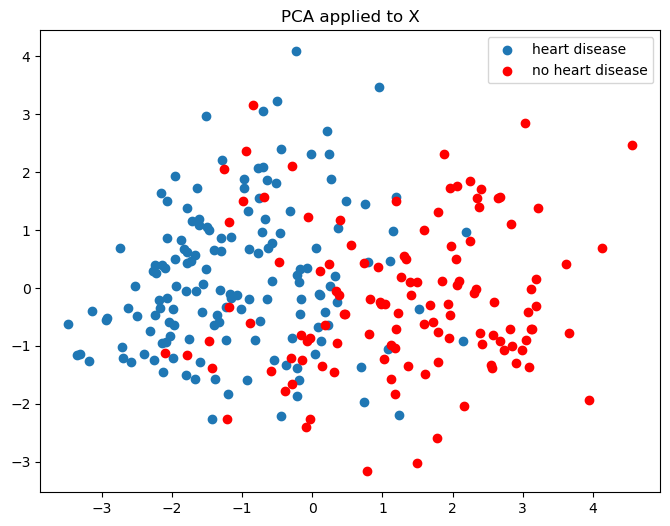
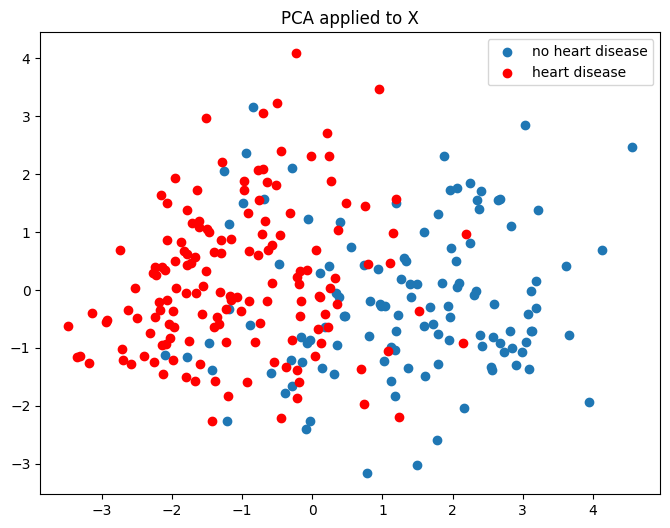
added decision boundary

diff --git a/neural_net.py b/neural_net.py
@@ -120,6 +120,22 @@ class Network:
         self.loss = loss
         self.grad_loss = grad_loss
 
+    def forward_propagation(self, input_data):
+        # sample dimension first
+        samples = len(input_data)
+        result = []
+
+        # run network over all samples
+        for i in range(samples):
+            # forward propagation
+            output = np.array([input_data[i]])
+
+            for layer in self.layers:
+                output = layer.forward(output)
+            result.append(output)
+
+        return result
+
     # predict output for given input
 
     def predict(self, input_data, y_test):
@@ -144,13 +160,13 @@ class Network:
 
         err /= samples
         acc = acc / samples
-        print("Prediction error=%f   accuracy=%f " % (err, acc))
+        print("Prediction error=%f   accuracy=%f \n" % (err, acc))
 
         return result, err, acc
 
     # train the network
     def fit(self, x_train, y_train, epochs, learning_rate):
-        print(" Fitting Neural Network")
+        print("Fitting Neural Network")
         # sample dimension first
         samples = len(x_train)
         acc_array = []
@@ -184,7 +200,7 @@ class Network:
             acc_array.append(acc)
 
             if i % 100 == 0:
-                print("epoch %d/%d   error=%f   accuracy=%f " % (i, epochs, err, acc))
+                print("   epoch %d/%d   error=%f   accuracy=%f " % (i, epochs, err, acc))
 
         self.accuracy_metric = acc_array
         self.error_metric = err_array

diff --git a/test.py b/test.py
@@ -1,31 +1,35 @@
 import pandas as pd
 import numpy as np
-from sklearn.preprocessing import StandardScaler    
+from sklearn.preprocessing import StandardScaler
 
 from neural_net import Network, DenseLayer, ActivationLayer
-from functions import mse, mse_grad, tanh, tanh_grad
-from posixpath import split
+from functions import mse, mse_grad, tanh, tanh_grad, sigmoid, sigmoid_grad
+from decision_bound import decision_boundary
 from load_data import load_data
 from dim_red import dim_reduction
 from stratify import stratify_cv
 
+from posixpath import split
+
+
 def main():
     # Importing dataset
     X, y = load_data(split_xy=True)
-    
+
     scaler = StandardScaler()
     X = scaler.fit_transform(X)
 
-    X_train, X_test, y_train, y_test = (
-        stratify_cv(np.c_[dim_reduction(X, y, saveimg=False), y])
-    )
-    
+    X_dim = dim_reduction(X, y, saveimg=True)
+
+    X_train, X_test, y_train, y_test = stratify_cv(np.c_[X_dim, y])
+
     # Building the Network
     net = Network()
     net.add(DenseLayer(2, 10))
     net.add(ActivationLayer(tanh, tanh_grad))
     net.add(DenseLayer(10, 1))
     net.add(ActivationLayer(tanh, tanh_grad))
+    net.add(ActivationLayer(sigmoid, sigmoid_grad))
 
     # Fitting
     net.use(mse, mse_grad)
@@ -34,7 +38,8 @@ def main():
     # Testing
     results, err, acc = net.predict(X_test, y_test)
 
+    decision_boundary(X_dim, y, net, True)
+
 
 if __name__ == "__main__":
     main()
-

diff --git a/decision_bound.py b/decision_bound.py
@@ -1,0 +1,34 @@
+import numpy as np
+import matplotlib.pyplot as plt
+
+from dim_red import dim_reduction
+
+
+def decision_boundary(X, y, net, saveimg=True):
+    min1, max1 = X[:, 0].min()-1, X[:, 0].max()+1
+    min2, max2 = X[:, 1].min()-1, X[:, 1].max()+1
+
+    x1grid = np.arange(min1, max1, 0.1)
+    x2grid = np.arange(min2, max2, 0.1)
+
+    xx, yy = np.meshgrid(x1grid, x2grid)
+    r1, r2 = xx.flatten(), yy.flatten()
+    r1, r2 = r1.reshape((len(r1), 1)), r2.reshape((len(r2), 1))
+    grid = np.hstack((r1,r2))
+
+    y_hat = np.round(net.forward_propagation(grid))
+
+    zz = y_hat.reshape(xx.shape)
+
+    import matplotlib.pyplot as plt
+    plt.figure(figsize=(8, 6))
+    plt.contourf(xx, yy, zz, cmap='bwr', alpha=0.4)
+
+    plt.title("Decision bound")
+    plt.scatter(X.T[0][y == 0], X.T[1][y == 0], label="no heart disease")
+    plt.scatter(X.T[0][y == 1], X.T[1][y == 1], color="red", label="heart disease")
+    plt.legend()
+
+    if saveimg:
+        plt.savefig("figures/decision_bound.png", bbox_inches="tight")
+        print("A plot of the decision bound is saved in the .../figures/ folder \n")

diff --git a/dim_red.py b/dim_red.py
@@ -5,15 +5,18 @@ import pandas as pd
 
 
 def dim_reduction(X, y, saveimg=True):
+    print("Performing PCA on the data")
     pca = PCA(n_components=2).fit_transform(X).T
     plt.figure(figsize=(8, 6))
     plt.title("PCA applied to X")
-    plt.scatter(pca[0][y == 1], pca[1][y == 1], label="heart disease")
-    plt.scatter(pca[0][y == 0], pca[1][y == 0], color="red", label="no heart disease")
+    plt.scatter(pca[0][y == 0], pca[1][y == 0], label="no heart disease")    
+    plt.scatter(pca[0][y == 1], pca[1][y == 1], color="red", label="heart disease")
+
     plt.legend()
 
     if saveimg:
         plt.savefig("figures/pca_n2.png", bbox_inches="tight")
+        print("A plot of the transformed data is saved in the .../figures/ folder \n")
 
     return pca.T
 

diff --git a/load_data.py b/load_data.py
@@ -2,6 +2,7 @@ import pandas as pd
 
 
 def load_data(split_xy=True):
+    print("Loading the data \n")
     heart = pd.read_csv("heart.csv", header=None)
     # change the label '-1' to '0'
     heart.loc[heart[13] < 1, 13] = 0

diff --git a/functions.py b/functions.py
@@ -24,3 +24,11 @@ def tanh(x):
 def tanh_grad(x):
     return 1 - np.tanh(x) ** 2
 
+
+def sigmoid(x):
+    return 1 / (1 + np.exp(-x))
+
+
+def sigmoid_grad(x):
+    f = sigmoid(x)
+    return f * (1 - f)
